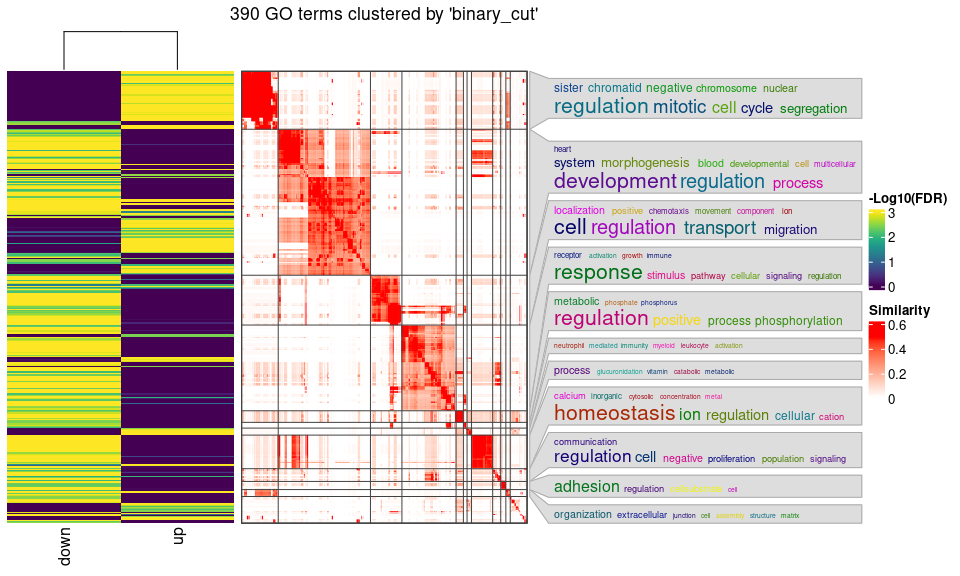
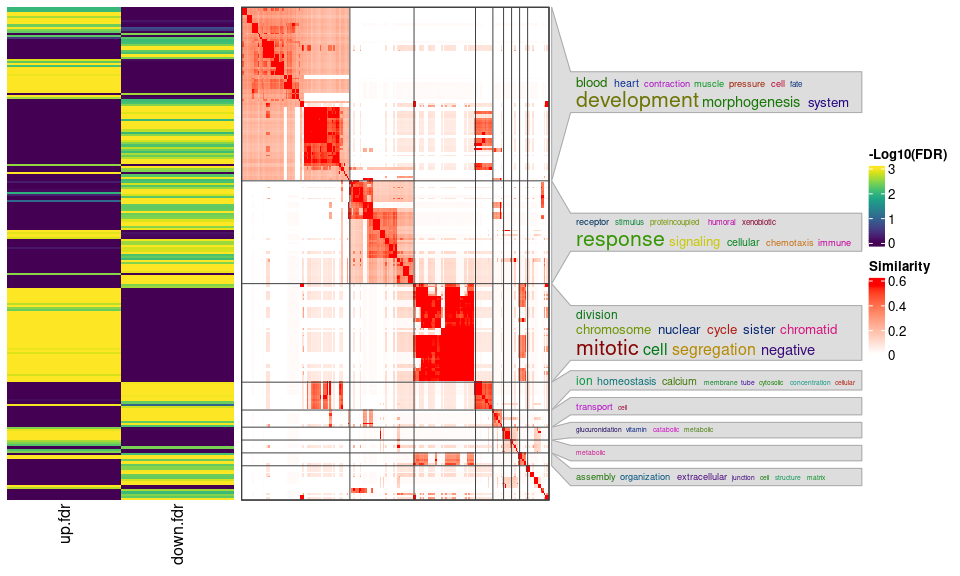
making it possible to find the GO terms and therefore their genes in the clusters of terms

diff --git a/README.md b/README.md
@@ -907,6 +907,7 @@ directly from Bioconductor.
     library(categoryCompare2)
     go_all_gene = select(org.Hs.eg.db, keys = all_genes, keytype = "SYMBOL", columns = c("GOALL", "ONTOLOGYALL"))
     go_2_gene = split(go_all_gene$SYMBOL, go_all_gene$GOALL)
+    go_2_gene = purrr::map(go_2_gene, unique)
     go_desc = select(GO.db, keys = names(go_2_gene), columns = "TERM", keytype = "GOID")$TERM
     names(go_desc) = names(go_2_gene)
 
@@ -1431,7 +1432,12 @@ Instead of categoryCompare, lets try something else.
 We extract the statistical results, and only keep those GO terms that
 were significant in either set of genes.
 
-    # this needs to be run in a base R session, NOT RStudio!!
+    go_gene_count = purrr::imap_dfr(go_2_gene, function(.x, .y){
+      data.frame(GO = .y, n_gene = length(.x))
+    })
+    go_desc_df = data.frame(GO = names(go_desc),
+                            definition = go_desc,
+                            row.names = NULL)
     stats = comb_sig@statistics@statistic_data
     sig = comb_sig@statistics@significant@significant
     sig_any = rowSums(sig) > 0
@@ -1442,12 +1448,15 @@ were significant in either set of genes.
     ## [1] 538  11
 
     keep_stats = dplyr::left_join(keep_stats, unique(go_all_gene[, c("GOALL", "ONTOLOGYALL")]), by = c("GO" = "GOALL"))
+    keep_stats = dplyr::left_join(keep_stats, go_gene_count, by = "GO")
+    keep_stats = dplyr::left_join(keep_stats, go_desc_df, by = "GO")
     saveRDS(keep_stats, file = "data_files/go_stats.rds")
 
 Now lets break those GO terms into groups by semantic similarity. We do
 the Biological Process first, because it’s the biggest, and *usually*
 the most informative.
 
+    # this needs to be run in a base R session, NOT RStudio!!
     library(simplifyEnrichment)
     library(ComplexHeatmap)
     library(magrittr)
@@ -1462,7 +1471,7 @@ the most informative.
     test_mat = GO_similarity(test_go, "BP")
     test_cluster = cluster_terms(test_mat)
 
-    ## Cluster 500 terms by 'binary_cut'... 17 clusters, used 1.075942 secs.
+    ## Cluster 500 terms by 'binary_cut'... 23 clusters, used 1.054445 secs.
 
 You want to run this code **outside RStudio** (i.e. open just “R”).
 RStudio plot viewer does weird things that mean you can’t enlarge the
@@ -1475,23 +1484,119 @@ plot.
     # now we can run the actual data we have
     go_stats = readRDS("data_files/go_stats.rds")
     bp_sig = go_stats %>%
-      dplyr::filter(ONTOLOGYALL %in% "BP") %>%
-      dplyr::pull(GO)
-    bp_mat = GO_similarity(bp_sig, "BP")
+      dplyr::filter(ONTOLOGYALL %in% "BP", n_gene <= 500, n_gene >= 5)
+    bp_go = bp_sig$GO
+    bp_mat = GO_similarity(bp_go, "BP")
+    bp_clusters = cluster_terms(bp_mat)
 
-    bp_stats = go_stats %>%
-      dplyr::filter(ONTOLOGYALL %in% "BP")
-    bp_fdr = bp_stats %>%
-      dplyr::summarise(up = -1 * log10(up.padjust),
-                              down = -1 * log10(down.padjust)) %>%
-      as.matrix()
-    rownames(bp_fdr) = bp_stats$GO
+    ## Cluster 230 terms by 'binary_cut'... 15 clusters, used 0.3632767 secs.
+
+    bp_sig = bp_sig %>%
+      dplyr::mutate(up.fdr = -1 * log10(up.padjust),
+                    down.fdr = -1 * log10(down.padjust))
+    bp_fdr = as.matrix(bp_sig[, c("up.fdr", "down.fdr")])
+    rownames(bp_fdr) = bp_sig$GO
     library(circlize)
     col_map = colorRamp2(seq(0, 3, length.out = 20), viridis::viridis(20))
-    fdr_heatmap = Heatmap(bp_fdr, col_map, "-Log10(FDR)", cluster_rows = FALSE, width = unit(6, "cm"))
+    fdr_heatmap = Heatmap(bp_fdr, col_map, "-Log10(FDR)", cluster_rows = FALSE, cluster_columns = FALSE, width = unit(6, "cm"))
 
-    bp_heatmap = simplifyGO(bp_mat, ht_list = fdr_heatmap)
-
-    ## Cluster 390 terms by 'binary_cut'... 23 clusters, used 0.759372 secs.
+    # if we order by size, then we can see the clusters, and pull them out
+    # using another bit of data.
+    bp_heatmap = ht_clusters(bp_mat, bp_clusters, ht_list = fdr_heatmap,
+                             exclude_words = c("regulation", "process", "pathway"),
+                             order_by_size = TRUE)
 
 ![](README_files/figure-markdown_strict/similarity_go-1.png)
+
+    cluster_membership = data.frame(GO = rownames(bp_mat),
+                                    cluster = bp_clusters)
+    bp_sig = dplyr::left_join(bp_sig, cluster_membership, by = "GO")
+    cluster_sizes = bp_sig %>%
+      dplyr::group_by(cluster) %>%
+      dplyr::summarise(n_go = length(GO)) %>%
+      dplyr::arrange(dplyr::desc(n_go))
+    knitr::kable(cluster_sizes)
+
+<table>
+<thead>
+<tr class="header">
+<th style="text-align: right;">cluster</th>
+<th style="text-align: right;">n_go</th>
+</tr>
+</thead>
+<tbody>
+<tr class="odd">
+<td style="text-align: right;">2</td>
+<td style="text-align: right;">81</td>
+</tr>
+<tr class="even">
+<td style="text-align: right;">4</td>
+<td style="text-align: right;">48</td>
+</tr>
+<tr class="odd">
+<td style="text-align: right;">1</td>
+<td style="text-align: right;">46</td>
+</tr>
+<tr class="even">
+<td style="text-align: right;">8</td>
+<td style="text-align: right;">13</td>
+</tr>
+<tr class="odd">
+<td style="text-align: right;">3</td>
+<td style="text-align: right;">8</td>
+</tr>
+<tr class="even">
+<td style="text-align: right;">6</td>
+<td style="text-align: right;">6</td>
+</tr>
+<tr class="odd">
+<td style="text-align: right;">7</td>
+<td style="text-align: right;">6</td>
+</tr>
+<tr class="even">
+<td style="text-align: right;">13</td>
+<td style="text-align: right;">6</td>
+</tr>
+<tr class="odd">
+<td style="text-align: right;">10</td>
+<td style="text-align: right;">3</td>
+</tr>
+<tr class="even">
+<td style="text-align: right;">11</td>
+<td style="text-align: right;">3</td>
+</tr>
+<tr class="odd">
+<td style="text-align: right;">14</td>
+<td style="text-align: right;">3</td>
+</tr>
+<tr class="even">
+<td style="text-align: right;">5</td>
+<td style="text-align: right;">2</td>
+</tr>
+<tr class="odd">
+<td style="text-align: right;">9</td>
+<td style="text-align: right;">2</td>
+</tr>
+<tr class="even">
+<td style="text-align: right;">12</td>
+<td style="text-align: right;">2</td>
+</tr>
+<tr class="odd">
+<td style="text-align: right;">15</td>
+<td style="text-align: right;">1</td>
+</tr>
+</tbody>
+</table>
+
+Now we can see that the third cluster down, is actually those terms in
+**cluster 1**. If we are interested in those terms, because they have
+some of the best separation between the two, and are almost all **up**,
+we can get those terms and the genes annotated to them.
+
+    cluster_1 = bp_sig %>%
+      dplyr::filter(cluster %in% 1)
+
+Now with this information, can we find the genes that were annotated to
+the terms and their fold-changes?? **Hint, have the GO terms and their
+annotated genes in `go_2_gene`, and then have the up and down data
+available.**
